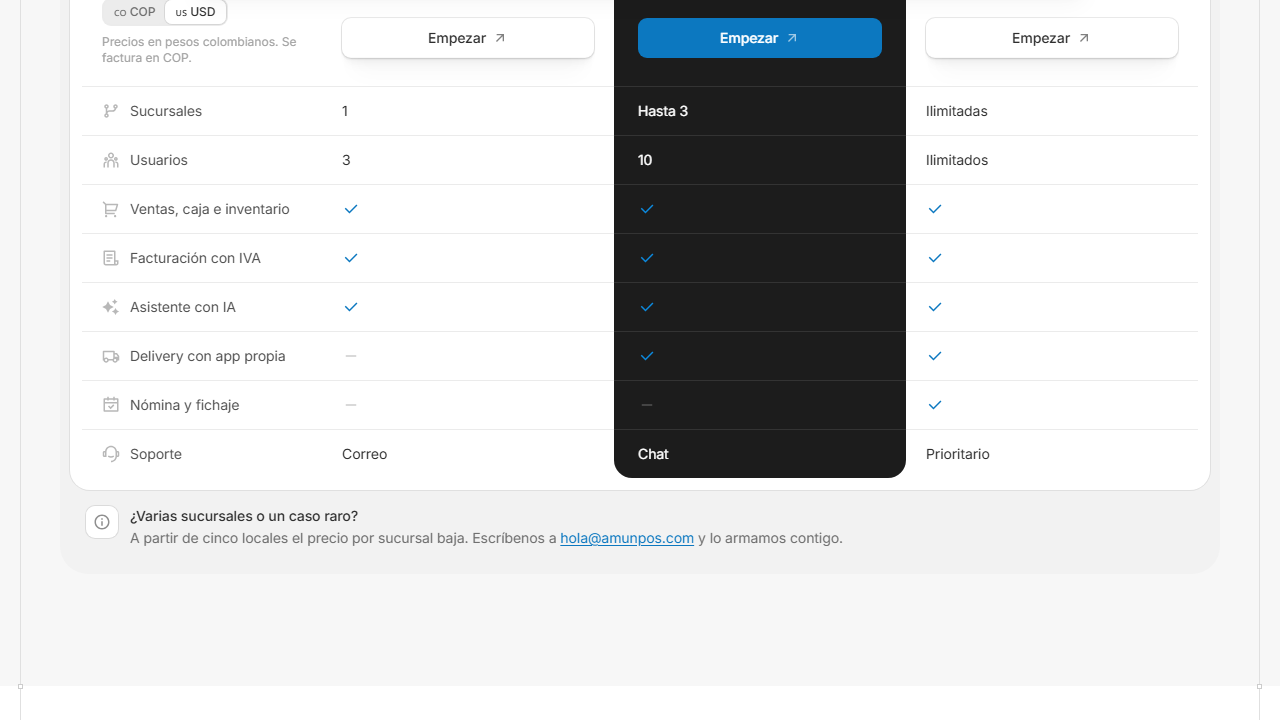
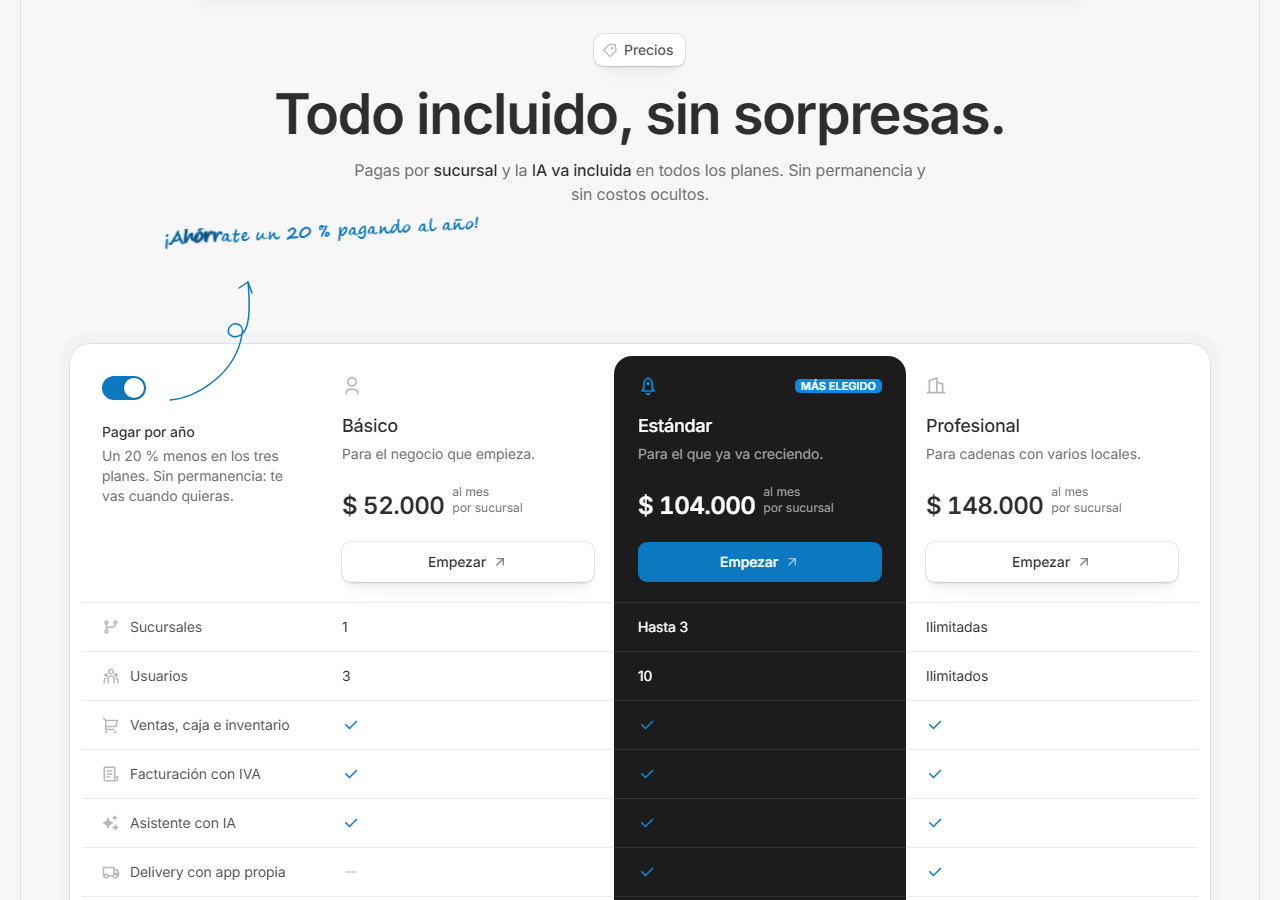
feat(precios): solo pesos; fuera el selector de moneda
Los dolares y el selector se van. Ensenar una moneda que no se cobra
obliga a explicar el cambio, invita a preguntar "y en cuanto me sale", y
no le sirve a nadie mientras no haya forma de cobrar en esa moneda.

Quedan 65.000 / 130.000 / 185.000 al mes, y un 20 % menos pagando por ano
(52.000 / 104.000 / 148.000).

Con esto la tabla vuelve a ser estatica de verdad: no hay isla que resuelva
la moneda al montar, ni parpadeo, ni nada que dependa de la zona horaria
del visitante.

Cuando toque vender fuera, vuelve — pero con importes FIJADOS por pais y no
convertidos, que es lo que dice PLAN-INTERNACIONALIZACION.md. Un precio que
se multiplica por la tasa del dia baila cada manana y sale con centimos.

La comprobacion del navegador ya funciona entera: el conmutador se lleva al
estado que se quiere en vez de darle un clic a ciegas —suponer en cual
arranca es lo que hacia comparar los precios anuales contra los mensuales—.
Tocando un precio o el descuento caen 4 de las 7.

diff --git a/src/components/sections/PricingTable.tsx b/src/components/sections/PricingTable.tsx
@@ -1,13 +1,5 @@
-import React, { useEffect, useState } from "react";
-import {
-  DESCUENTO_ANUAL,
-  formatearPrecio,
-  monedaDelVisitante,
-  monedas,
-  precioMensual,
-  guardarMoneda,
-  type CodigoMoneda,
-} from "@/data/precios";
+import React, { useState } from "react";
+import { DESCUENTO_ANUAL, formatearPrecio, precioMensual } from "@/data/precios";
 import {
   RiCheckLine,
   RiSubtractLine,
@@ -137,12 +129,10 @@ function Cabecera({
   plan,
   anual,
   oscuro,
-  moneda,
 }: {
   plan: (typeof planes)[number];
   anual: boolean;
   oscuro?: boolean;
-  moneda: CodigoMoneda;
 }) {
   const Icono = plan.icono;
   return (
@@ -176,16 +166,15 @@ function Cabecera({
 
       <div className="mt-5 flex items-end gap-2">
         {/* `tabular-nums` para que al pasar de 130.000 a 104.000 no baile el
-            ancho. Y el cuerpo baja en COP porque "$130.000" ocupa el doble que
-            "$41": con el tamaño de dólares se sale de la tarjeta. */}
+            ancho. Cuerpo h5 y no h4: "$ 130.000" son ocho caracteres y con el
+            tamaño grande se sale de la tarjeta. */}
         <span
           className={cn(
-            "tabular-nums",
-            moneda === "COP" ? "text-title-h5" : "text-title-h4",
+            "text-title-h5 tabular-nums",
             oscuro ? "text-gray-0" : "text-gray-900",
           )}
         >
-          {formatearPrecio(precioMensual(plan.id, moneda, anual), moneda)}
+          {formatearPrecio(precioMensual(plan.id, anual))}
         </span>
         <span
           className={cn(
@@ -222,17 +211,7 @@ function Cabecera({
   );
 }
 
-function Conmutador({
-  anual,
-  alCambiar,
-  moneda,
-  alCambiarMoneda,
-}: {
-  anual: boolean;
-  alCambiar: (v: boolean) => void;
-  moneda: CodigoMoneda;
-  alCambiarMoneda: (m: CodigoMoneda) => void;
-}) {
+function Conmutador({ anual, alCambiar }: { anual: boolean; alCambiar: (v: boolean) => void }) {
   return (
     <>
       <button
@@ -258,72 +237,13 @@ function Conmutador({
         Un 20 % menos en los tres planes. Sin permanencia: te vas cuando
         quieras.
       </p>
-      <SelectorMoneda moneda={moneda} alCambiar={alCambiarMoneda} />
     </>
-  );
-}
-
-/**
- * El selector de moneda, y la frase que dice en qué se factura.
- *
- * La frase no es un detalle legal: sin ella el visitante no sabe si el precio
- * es una conversión orientativa o lo que le van a cobrar de verdad, y esa duda
- * frena la compra más que el propio importe.
- */
-function SelectorMoneda({
-  moneda,
-  alCambiar,
-}: {
-  moneda: CodigoMoneda;
-  alCambiar: (m: CodigoMoneda) => void;
-}) {
-  const codigos = Object.keys(monedas) as CodigoMoneda[];
-  return (
-    <div className="mt-4">
-      <div role="group" aria-label="Moneda" className="inline-flex rounded-9 bg-gray-100 p-0.5">
-        {codigos.map((c) => (
-          <button
-            key={c}
-            type="button"
-            onClick={() => alCambiar(c)}
-            aria-pressed={moneda === c}
-            className={cn(
-              "rounded-[7px] px-2.5 py-1 text-label-xs transition",
-              moneda === c
-                ? "bg-gray-0 text-gray-900 shadow-badge-gray"
-                : "text-gray-600 hover:text-gray-900",
-            )}
-          >
-            {monedas[c].etiqueta}
-          </button>
-        ))}
-      </div>
-      <p className="mt-2 text-paragraph-xs text-gray-450">{monedas[moneda].nota}</p>
-    </div>
   );
 }
 
 
 export default function PricingTable() {
   const [anual, setAnual] = useState(true);
-
-  // El sitio es estático: el HTML sale del build con USD para todo el mundo y
-  // esta isla corrige al montar. Es lo que permite seguir siendo estático —la
-  // alternativa es activar SSR y pagarlo en velocidad en TODAS las visitas para
-  // arreglar un parpadeo de 100 ms en la primera.
-  //
-  // El precio NO se esconde hasta que se resuelva la moneda, aunque eso evitaría
-  // ese parpadeo: si el visitante entra sin JavaScript la isla no llega a
-  // montar nunca, y una tabla de precios sin precios es peor que una con la
-  // moneda equivocada. Los dólares del HTML son una respuesta correcta para
-  // todo el mundo menos Colombia, y Colombia la ve corregida en un fotograma.
-  const [moneda, setMoneda] = useState<CodigoMoneda>("USD");
-  useEffect(() => setMoneda(monedaDelVisitante()), []);
-
-  const cambiarMoneda = (nueva: CodigoMoneda) => {
-    setMoneda(nueva);
-    guardarMoneda(nueva);
-  };
 
   return (
     <div className="relative w-full">
@@ -421,7 +341,7 @@ export default function PricingTable() {
               tiene sentido: manda sobre las tres columnas de la derecha, así
               que su sitio es la esquina donde se cruzan. */}
             <div className="p-5">
-              <Conmutador anual={anual} alCambiar={setAnual} moneda={moneda} alCambiarMoneda={cambiarMoneda} />
+              <Conmutador anual={anual} alCambiar={setAnual} />
             </div>
             {planes.map((plan) => (
               <div
@@ -431,7 +351,7 @@ export default function PricingTable() {
                   plan.destacado && "rounded-t-[18px] bg-gray-950 px-6",
                 )}
               >
-                <Cabecera plan={plan} anual={anual} oscuro={plan.destacado} moneda={moneda} />
+                <Cabecera plan={plan} anual={anual} oscuro={plan.destacado} />
               </div>
             ))}
 
@@ -473,7 +393,7 @@ export default function PricingTable() {
               que el conmutador va encima de las tarjetas: sigue mandando sobre
               las tres, que es lo único que importa. */}
             <div className="px-3 py-2">
-              <Conmutador anual={anual} alCambiar={setAnual} moneda={moneda} alCambiarMoneda={cambiarMoneda} />
+              <Conmutador anual={anual} alCambiar={setAnual} />
             </div>
             {planes.map((plan) => (
               <div
@@ -484,7 +404,7 @@ export default function PricingTable() {
                   plan.destacado ? "bg-gray-950" : "bg-gray-25",
                 )}
               >
-                <Cabecera plan={plan} anual={anual} oscuro={plan.destacado} moneda={moneda} />
+                <Cabecera plan={plan} anual={anual} oscuro={plan.destacado} />
                 <ul className="mt-5 flex flex-col gap-2.5">
                   {caracteristicas.map((c, i) => (
                     <li key={c.nombre} className="flex items-center gap-2.5">

diff --git a/src/data/precios.ts b/src/data/precios.ts
@@ -1,54 +1,23 @@
 /**
  * Los precios. Un solo sitio, escritos a mano.
  *
- * **La moneda base es el PESO COLOMBIANO**, no el dólar: es donde está el
- * negocio, donde se factura y donde se decidió cuánto vale esto. El dólar es la
- * conversión para todos los demás.
+ * **Solo pesos colombianos.** Es donde está el negocio, donde se factura y a
+ * quién se le vende hoy. Hubo una versión con dólares y selector de moneda, y
+ * se quitó a propósito: enseñar una moneda que no se cobra obliga a explicar el
+ * cambio, invita a preguntar "¿y en cuánto me sale?", y no le sirve a nadie
+ * mientras no haya forma de cobrar en esa moneda.
  *
- * Y "conversión" quiere decir que se calculó **una vez** y se escribió aquí, no
- * que se calcule al vuelo. Un precio que se multiplica por la tasa del día baila
- * cada mañana, sale con céntimos, y quien lo vea dos veces con números distintos
- * deja de fiarse. Cuando el cambio se mueva de verdad, se editan estos números a
- * mano y se despliega.
- *
- * Referencia de la conversión: TRM ≈ 3.157 COP/USD (agosto de 2026).
- *   65.000 ÷ 3.157 = 20,59  → 21
- *  130.000 ÷ 3.157 = 41,18  → 41
- *  185.000 ÷ 3.157 = 58,60  → 59
+ * Cuando toque vender fuera, esto vuelve — pero con importes FIJADOS por país,
+ * no convertidos: un precio que se multiplica por la tasa del día baila cada
+ * mañana, sale con céntimos, y quien lo vea dos veces con números distintos
+ * deja de fiarse. Está escrito en PLAN-INTERNACIONALIZACION.md.
  */
 
-export type CodigoMoneda = "COP" | "USD";
-
-export const monedas: Record<
-  CodigoMoneda,
-  { codigo: CodigoMoneda; locale: string; etiqueta: string; paises: string[]; nota: string }
-> = {
-  COP: {
-    codigo: "COP",
-    locale: "es-CO",
-    // Sin bandera emoji: Windows no las dibuja — 🇨🇴 sale como las letras "CO",
-    // que junto al código quedaría "CO COP". El código de moneda basta.
-    etiqueta: "Pesos (COP)",
-    paises: ["CO"],
-    nota: "Precios en pesos colombianos. Se factura en COP.",
-  },
-  USD: {
-    codigo: "USD",
-    locale: "en-US",
-    etiqueta: "Dólares (USD)",
-    // Vacío a propósito: USD es la caída por defecto de todo lo que no sea
-    // Colombia. Nadie se ofende por ver dólares; sí por ver la moneda del país
-    // de al lado.
-    paises: [],
-    nota: "Precios en dólares. Se factura en USD.",
-  },
-};
-
-/** Precio MENSUAL por plan, por moneda. Se decide, no se calcula. */
-export const precios: Record<string, Record<CodigoMoneda, number>> = {
-  basico: { COP: 65000, USD: 21 },
-  estandar: { COP: 130000, USD: 41 },
-  profesional: { COP: 185000, USD: 59 },
+/** Precio MENSUAL por plan, en pesos. Se decide, no se calcula. */
+export const precios: Record<string, number> = {
+  basico: 65000,
+  estandar: 130000,
+  profesional: 185000,
 };
 
 /**
@@ -57,76 +26,21 @@ export const precios: Record<string, Record<CodigoMoneda, number>> = {
  */
 export const DESCUENTO_ANUAL = 0.2;
 
-/**
- * El precio que se enseña: mensual, o el mensual equivalente si paga por año.
- *
- * Se redondea a entero. En COP porque los céntimos no existen en la práctica, y
- * en USD porque un `$16,8/mes` en una tabla de precios se lee como un error de
- * cuentas, no como una oferta.
- */
-export function precioMensual(plan: string, moneda: CodigoMoneda, anual: boolean): number {
-  const base = precios[plan]?.[moneda] ?? 0;
+/** El precio que se enseña: mensual, o el mensual equivalente si paga por año. */
+export function precioMensual(plan: string, anual: boolean): number {
+  const base = precios[plan] ?? 0;
   return Math.round(anual ? base * (1 - DESCUENTO_ANUAL) : base);
 }
 
 /**
- * Formatea con `Intl`, que ya sabe que en Colombia los miles van con punto
- * (`$ 65.000`) y en Estados Unidos con coma.
+ * `$ 65.000`. Con `Intl`, que ya sabe que en Colombia los miles van con punto.
  *
  * Sin decimales: `$65.000,00` ocupa el doble y no aporta nada.
  */
-export function formatearPrecio(valor: number, moneda: CodigoMoneda): string {
-  return new Intl.NumberFormat(monedas[moneda].locale, {
+export function formatearPrecio(valor: number): string {
+  return new Intl.NumberFormat("es-CO", {
     style: "currency",
-    currency: moneda,
+    currency: "COP",
     maximumFractionDigits: 0,
   }).format(valor);
-}
-
-/**
- * Qué moneda le toca a un país. Todo lo que no sea Colombia ve dólares.
- */
-export function monedaDePais(pais: string | null | undefined): CodigoMoneda {
-  if (!pais) return "USD";
-  const codigo = String(pais).trim().toUpperCase();
-  return monedas.COP.paises.includes(codigo) ? "COP" : "USD";
-}
-
-const CLAVE_GUARDADA = "amunpos_moneda";
-
-/**
- * La moneda del visitante, por orden de quién manda:
- *
- * 1. **Lo que eligió a mano.** Si tocó el selector, no se le vuelve a mover.
- * 2. **Su zona horaria.** `America/Bogota` → Colombia. Acierta bastante y no
- *    pide permisos ni cuesta una petición.
- * 3. **Dólares.**
- *
- * Lo que NO se usa es la geolocalización del navegador: pide permiso, saca un
- * cartel del sistema encima de la página, y todo para un dato que la zona
- * horaria ya da de sobra. Pedir la ubicación para enseñar un precio es de las
- * cosas que hacen cerrar la pestaña.
- */
-export function monedaDelVisitante(): CodigoMoneda {
-  if (typeof window === "undefined") return "USD";
-
-  const guardada = window.localStorage?.getItem(CLAVE_GUARDADA);
-  if (guardada === "COP" || guardada === "USD") return guardada;
-
-  try {
-    const zona = Intl.DateTimeFormat().resolvedOptions().timeZone || "";
-    if (/^America\/Bogota$/i.test(zona)) return "COP";
-  } catch {
-    /* Intl siempre existe, pero si algo raro pasa, dólares. */
-  }
-  return "USD";
-}
-
-export function guardarMoneda(moneda: CodigoMoneda): void {
-  try {
-    window.localStorage?.setItem(CLAVE_GUARDADA, moneda);
-  } catch {
-    /* Modo incógnito con el almacenamiento capado: se pierde la elección al
-       recargar, pero la página funciona. */
-  }
 }
